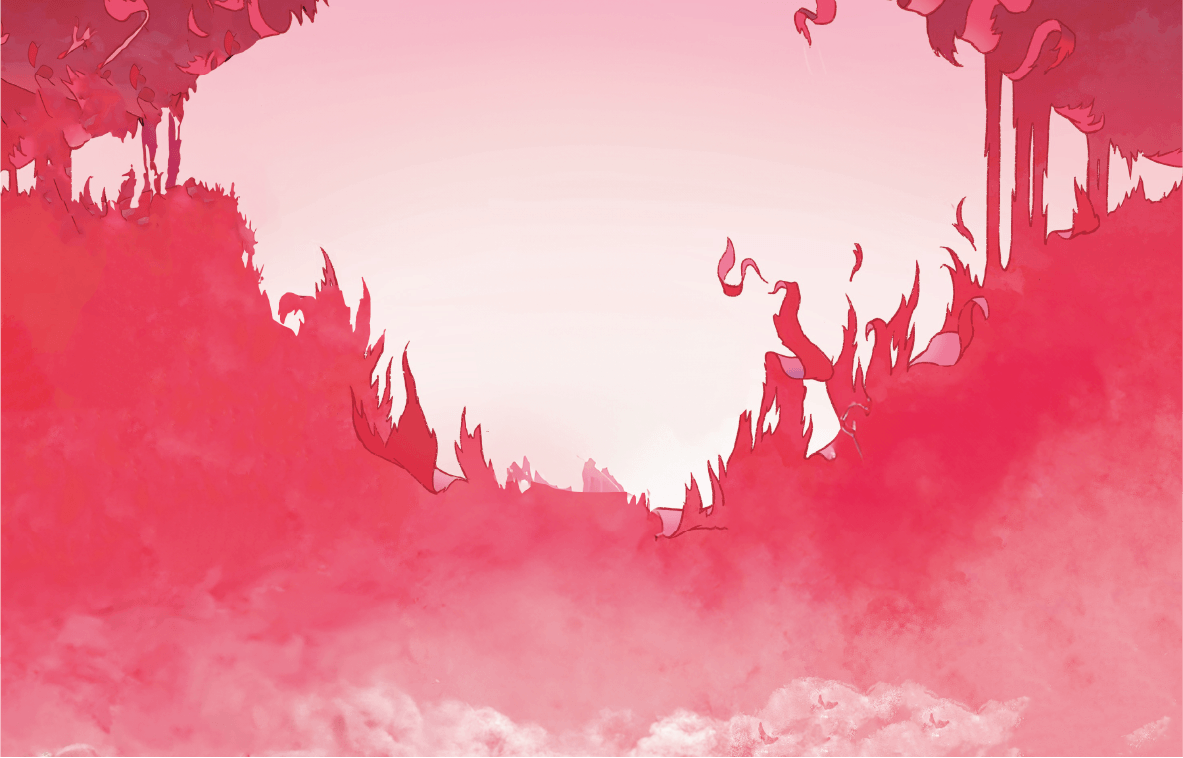
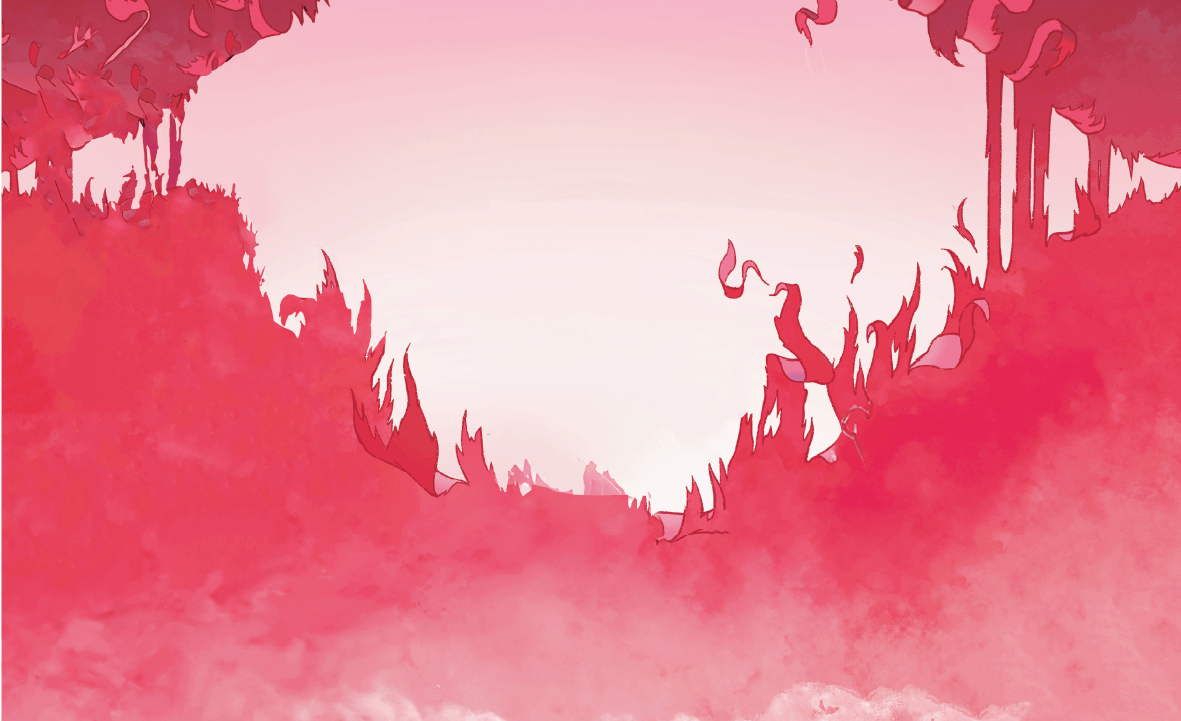
Modification html

diff --git a/dist/index.html b/dist/index.html
@@ -15,7 +15,7 @@
     <div class="header">
       <div class="nav">
         <div class="button-nav">
-          <a href="https://statics.teams.cdn.office.net/evergreen-assets/safelinks/1/atp-safelinks.html"><p>AUTEUR</p></a>
+          <a href="https://www.editions-delcourt.fr/auteurs/monde-geoffroy"><p>AUTEUR</p></a>
         </div>
         <div class="button-nav">
           <a href="https://www.dargaud.com/bd/furieuse-bda5430320#strate_acheter"><p>ACHETER LA BD</p></a>
@@ -219,7 +219,7 @@
       </div>
       <d iv="" class="a-propos">
         <h2>A PROPOS</h2>
-        <a href="https://statics.teams.cdn.office.net/evergreen-assets/safelinks/1/atp-safelinks.html"><p>A propos des auteurs</p></a>
+        <a href="https://www.editions-delcourt.fr/auteurs/monde-geoffroy"><p>A propos des auteurs</p></a>
         <a href="https://www.dargaud.com/bd/furieuse-bda5430320#strate_acheter"><p>Acheter la BD en ligne</p></a>
         <a href="https://www.google.com/maps/place/Fnac+Fribourg+Centre/@46.8031787,7.1523576,15z/data=!4m2!3m1!1s0x0:0xe7c52ddb88feb55c?sa=X&ved=2ahUKEwi0qsmbwd6BAxUd2AIHHUBNCSAQ_BJ6BAh3EAA&ved=2ahUKEwi0qsmbwd6BAxUd2AIHHUBNCSAQ_BJ6BAh6EAg"><p>Trouver un point de vente</p></a>
       </d>

diff --git a/src/index.html b/src/index.html
@@ -15,8 +15,7 @@
     <div class="header">
       <div class="nav">
         <div class="button-nav">
-          <a
-            href="https://statics.teams.cdn.office.net/evergreen-assets/safelinks/1/atp-safelinks.html"
+          <a href="https://www.editions-delcourt.fr/auteurs/monde-geoffroy"
             ><p>AUTEUR</p></a
           >
         </div>
@@ -418,8 +417,7 @@
       </div>
       <d iv class="a-propos">
         <h2>A PROPOS</h2>
-        <a
-          href="https://statics.teams.cdn.office.net/evergreen-assets/safelinks/1/atp-safelinks.html"
+        <a href="https://www.editions-delcourt.fr/auteurs/monde-geoffroy"
           ><p>A propos des auteurs</p></a
         >
         <a href="https://www.dargaud.com/bd/furieuse-bda5430320#strate_acheter"

diff --git a/dist/index.b10d73a7.css b/dist/index.b10d73a7.css
@@ -112,19 +112,21 @@ a {
 }
 
 .scroll-button {
+  flex-direction: row;
+  justify-content: end;
   animation: button 2s ease-in-out infinite;
+  display: flex;
   position: absolute;
-  bottom: 900px;
-  left: 750px;
+  right: 800px;
 }
 
 @keyframes button {
   0%, 100% {
-    transform: translateY(900px);
+    transform: translateY(100px);
   }
 
   50% {
-    transform: translateY(1000px);
+    transform: translateY(200px);
   }
 }
 
@@ -140,14 +142,13 @@ a {
 }
 
 .layer-1 {
-  height: 970px;
   top: 0%;
 }
 
 .layer-2 {
   width: 880px;
   top: 13%;
-  left: 23%;
+  left: 26%;
 }
 
 .layer-3 {

diff --git a/src/scss/modules/_header.scss b/src/scss/modules/_header.scss
@@ -3,18 +3,20 @@
 }
 
 .scroll-button {
+  display: flex;
+  flex-direction: row;
+  justify-content: end;
   position: absolute;
-  bottom: 900px;
-  left: 750px;
+  right: 800px;
   animation: button 2s ease-in-out infinite;
 }
 
 @keyframes button {
   0%,
   100% {
-    transform: translateY(900px);
+    transform: translateY(100px);
   }
   50% {
-    transform: translateY(1000px);
+    transform: translateY(200px);
   }
 }

diff --git a/src/scss/modules/_parallax.scss b/src/scss/modules/_parallax.scss
@@ -14,12 +14,11 @@
 
 .layer-1 {
   top: 0%;
-  height: 970px;
 }
 
 .layer-2 {
   top: 13%;
-  left: 23%;
+  left: 26%;
   width: 880px;
 }
 
